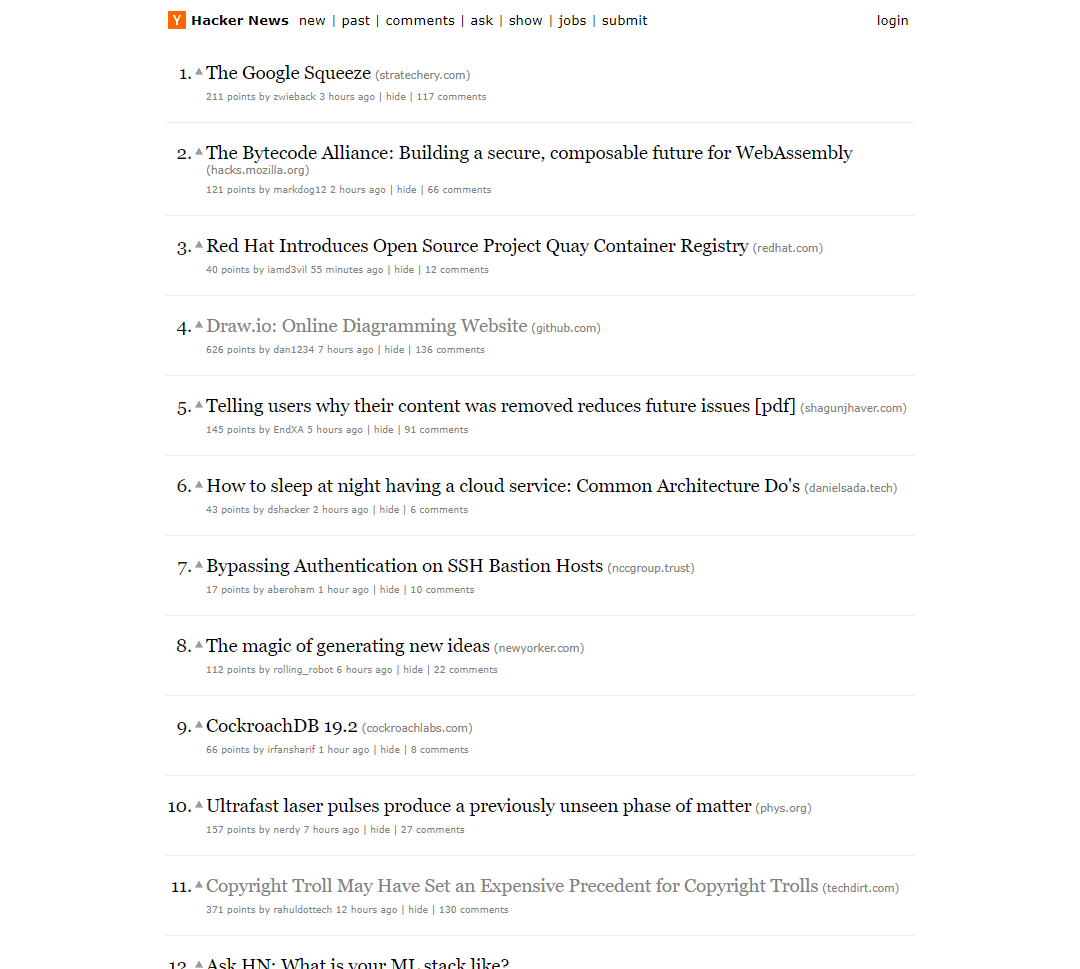
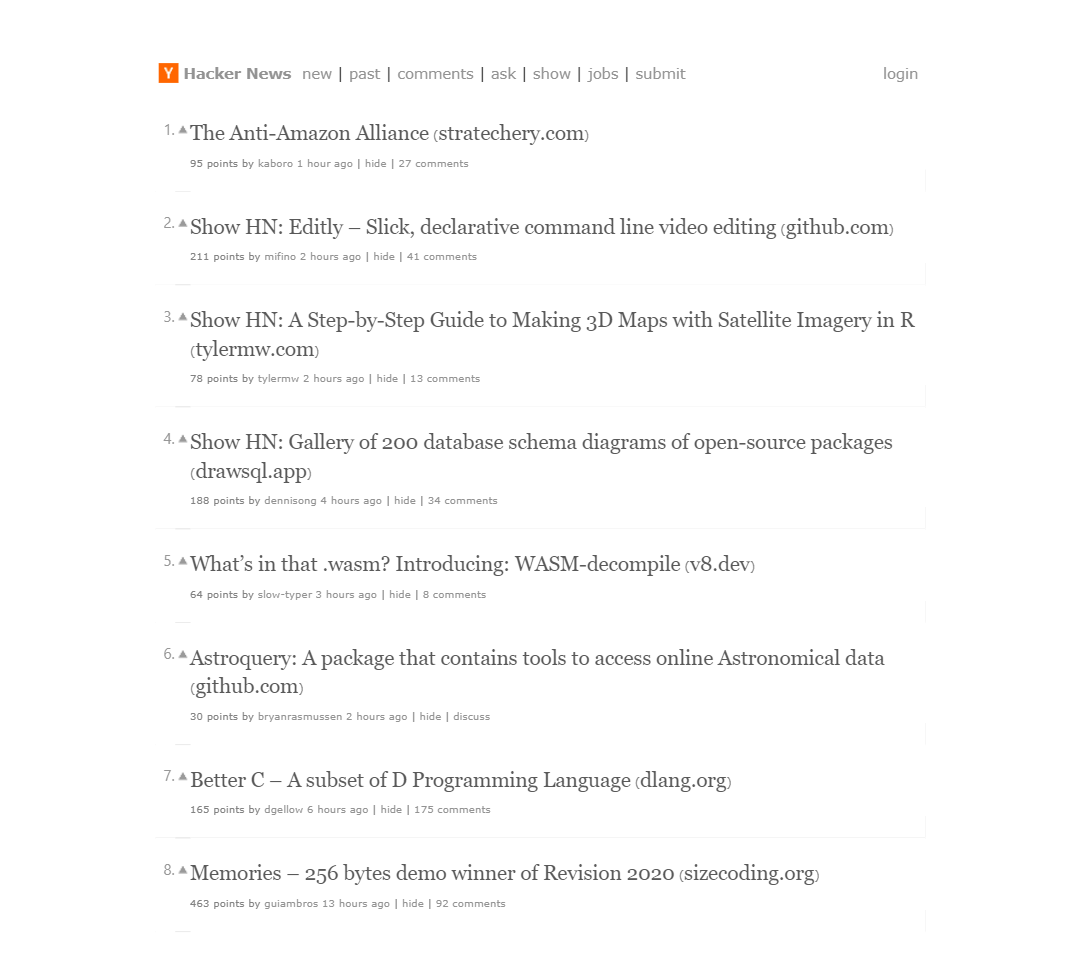
Update Hacker News Readable Light styles

diff --git a/hacker-news-readable-light.user.js b/hacker-news-readable-light.user.js
@@ -1,11 +1,20 @@
 @-moz-document url-prefix("https://news.ycombinator.com/") {
     body, .title {
-        font-family: Georgia, Times, Times New Roman, serif;
+        font-family: -apple-system, BlinkMacSystemFont, "Segoe UI", Roboto, Helvetica, Arial, sans-serif, "Apple Color Emoji", "Segoe UI Emoji", "Segoe UI Symbol";
+        background: #fff !important;
+        color: #939393 !important;
+        }
+    
+    a:link {
+        color: #939393 !important;
+    }
+    a:visited {
+        color: #939393 !important;
     }
     
     table#hnmain {
-        max-width: 750px;
-        background-color: transparent;
+        max-width: 700px;
+        background-color: rgba(125, 124, 124, 0);
     }
     
     td {
@@ -13,8 +22,18 @@
     }
     
     .title {
+        color: #979797 !important;
+    }
+    
+    .title a {
+        font-family: Georgia, Times, Times New Roman, serif;
         font-size: 14pt;
-        color: #111;
+        color: #595959 !important;
+        line-height: 1.4;
+    }
+    
+    .subtext a {
+        color: #939393 !important;
     }
     
     tr.spacer {
@@ -29,15 +48,16 @@
     td.subtext {
         padding-top: 8px;
     }
-
-    .comment-tree .comment, .fatitem .comment {
+    
+    .comment-tree .comment,
+    .fatitem .comment {
         font-family: Georgia, Times, Times New Roman, serif;
         font-size: 12pt;
         line-height: 22pt;
     }
-
+    
     .fatitem {
-        background: #f7f5f5;
+        background: #fff0;
         width: 100%;
         padding: 0 0 20px 0;
         border-bottom: 2px solid #ccc;
@@ -46,5 +66,9 @@
     .fatitem .comment {
         background: #f7f5f5;
         padding: 15px 25px;
+    }
+    
+    .comment .c00 {
+        color: #fff !important;
     }
 }
